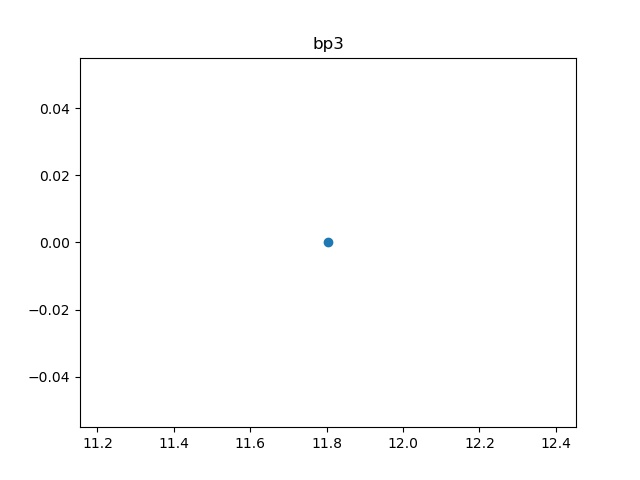
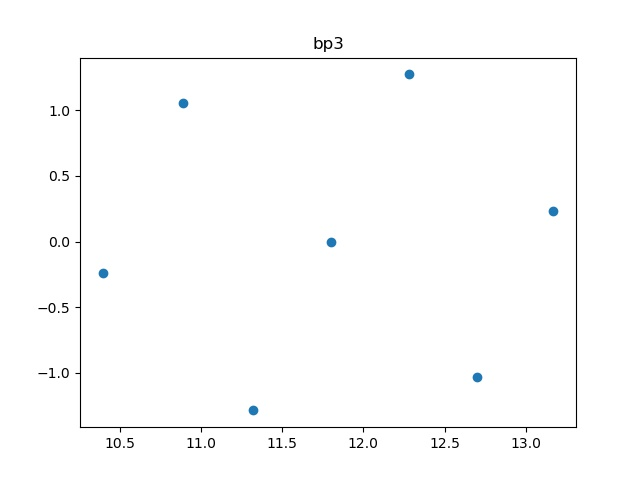
Camera Angles Working

diff --git a/src/WandSim/Camera.py b/src/WandSim/Camera.py
@@ -2,6 +2,7 @@ from src.WandSim.Ray import *
 from src.WandSim.PlotFunctions import *
 from src.WandSim.Projector import get_rotation_matrix
 from src.WandSim.WindowLens import *
+from copy import deepcopy
 import json
 import numpy as np
 
@@ -59,6 +60,7 @@ class Camera():
     def get_fermat_parameters(self, ray, window):
         print("ray Origin", ray.Origin)
         print("camera center", self.center)
+        DistanceVector = self.center[:2] - ray.Origin[:2]
         DistanceD = np.linalg.norm(self.center[:2] - ray.Origin[:2])
         print(DistanceD)
         height = abs(self.center[2]-ray.Origin[2])
@@ -66,7 +68,7 @@ class Camera():
         x = height - y
         N1 = 1
         N2 = window.RefractiveIndexDictionary.get(str(ray.get_ray_wavelength()))
-        return N1, N2, DistanceD, x, y
+        return N1, N2, DistanceD, DistanceVector, x, y
 
     def find_fermat_root(self,N1, N2, DistanceD, x, y ):
         z4 = math.pow(N1, 2) - math.pow(N2, 2)
@@ -77,28 +79,49 @@ class Camera():
         z1 = 2 * DistanceD * math.pow(N2, 2) * math.pow(x, 2)
         z0 = -math.pow(N2, 2) * math.pow(DistanceD, 2) * math.pow(x, 2)
 
-        print([z4, z3, z2, z1, z0])
+        #print([z4, z3, z2, z1, z0])
 
         FermatPolynomial = np.poly1d([z4, z3, z2, z1, z0])
         FermatRoots = FermatPolynomial.roots
-        print(N1, N2, DistanceD, x, y)
+        #print(N1, N2, DistanceD, x, y)
 
-        print(FermatPolynomial)
-        print(FermatRoots)
+        #print(FermatPolynomial)
+        #print(FermatRoots)
 
 
         for root in FermatRoots:
             if abs(root) < DistanceD:
                 print("This is the chosen distance: ", root)
-            else:
-                print("We threw this distance out: ", root, abs(root))
+                return root
+            # else:
+            #     print("We threw this distance out: ", root, abs(root))
 
         return
 
-    def fermatManager(self, ray, window):
-        N1, N2, DistanceD, x, y = self.get_fermat_parameters(ray, window)
+    def fermatManager(self, rayList, window):
+        rootList = []
+        self.cameraRayList = deepcopy(rayList)
+        for ray in self.cameraRayList:
+            N1, N2, DistanceD, DistanceVector, x, y = self.get_fermat_parameters(ray, window)
+            rootList.append(self.find_fermat_root(N1, N2, DistanceD, x, y))
+            DistanceVector = DistanceVector / np.linalg.norm(DistanceVector)
+            print("vector Direction: ", DistanceVector)
+            location = ray.Origin[:2] + DistanceVector*DistanceD
+            print("vector location: ", location)
+            print("comparison camera location: ", self.center)
+            windowincident = ray.Origin[:2] + DistanceVector*rootList[-1]
+            windowincident = np.insert(windowincident, 2, ray.Origin[2]+x)
+            print("window location root:", windowincident)
+            rayDirection = windowincident - ray.Origin
+            print("ray direction: ", rayDirection)
+            ray.set_origin(self.center)
+            ray.set_direction(rayDirection)
+            ray.write_the_story(self.cameraName, 0, 0, ray.Direction)
+        print(len(self.cameraRayList))
+        plot_quiver(self.cameraRayList, self.cameraName)
+        print(rootList)
+        print("End of camera: ", self.cameraName)
 
-        self.find_fermat_root(N1, N2, DistanceD, x, y)
 
         return
 

diff --git a/src/WandSim/Ray.py b/src/WandSim/Ray.py
@@ -57,8 +57,8 @@ class Ray():
     def get_direction(self):
         return self.Direction
 
-    def set_origin(self, _x, _y, _z):
-        self.Origin = np.array([_x, _y, _z])
+    def set_origin(self, _origin):
+        self.Origin = _origin
 
     def set_direction(self, _direction):
         self.Direction = _direction
@@ -95,7 +95,8 @@ class Ray():
 
             if kfactor >= 0:
                 intersectionpoint = rayorigin + raydirection * kfactor
-                self.set_origin(intersectionpoint[0], intersectionpoint[1], intersectionpoint[2])
+                #fixing
+                self.set_origin(intersectionpoint)
                 self.write_the_story(_surface.SurfaceName, self.IndexI, self.IndexJ, self.Origin)
                 # print("The intersection point is: %s" % (self.get_origin()))
             else:

diff --git a/src/WandSim/WandSimulatorManager.py b/src/WandSim/WandSimulatorManager.py
@@ -13,7 +13,9 @@ def startSimulator():
     print("Number of projector rays is:")
     print(Projector.NoOfProjectorRays)
 
-    print(cameraList[0].fermatManager(Projector.AllProjectorRaysList[1], windowsList[0]))
+    for camera in cameraList:
+        camera.CameraDotRayList = camera.fermatManager(Projector.AllProjectorRaysList, windowsList[0])
+
 
     # print(cameraList[0])
     #

diff --git a/src/WandSim/ScalarField.py b/src/WandSim/ScalarField.py
@@ -19,9 +19,6 @@ class ScalarField:
         self._yGrid = []
         self._zScalarField = []
 
-    def grating_kernel(self):
-        return
-
 
     def grating_grid(self):
         coordinateConstant = get_lattice_const()
